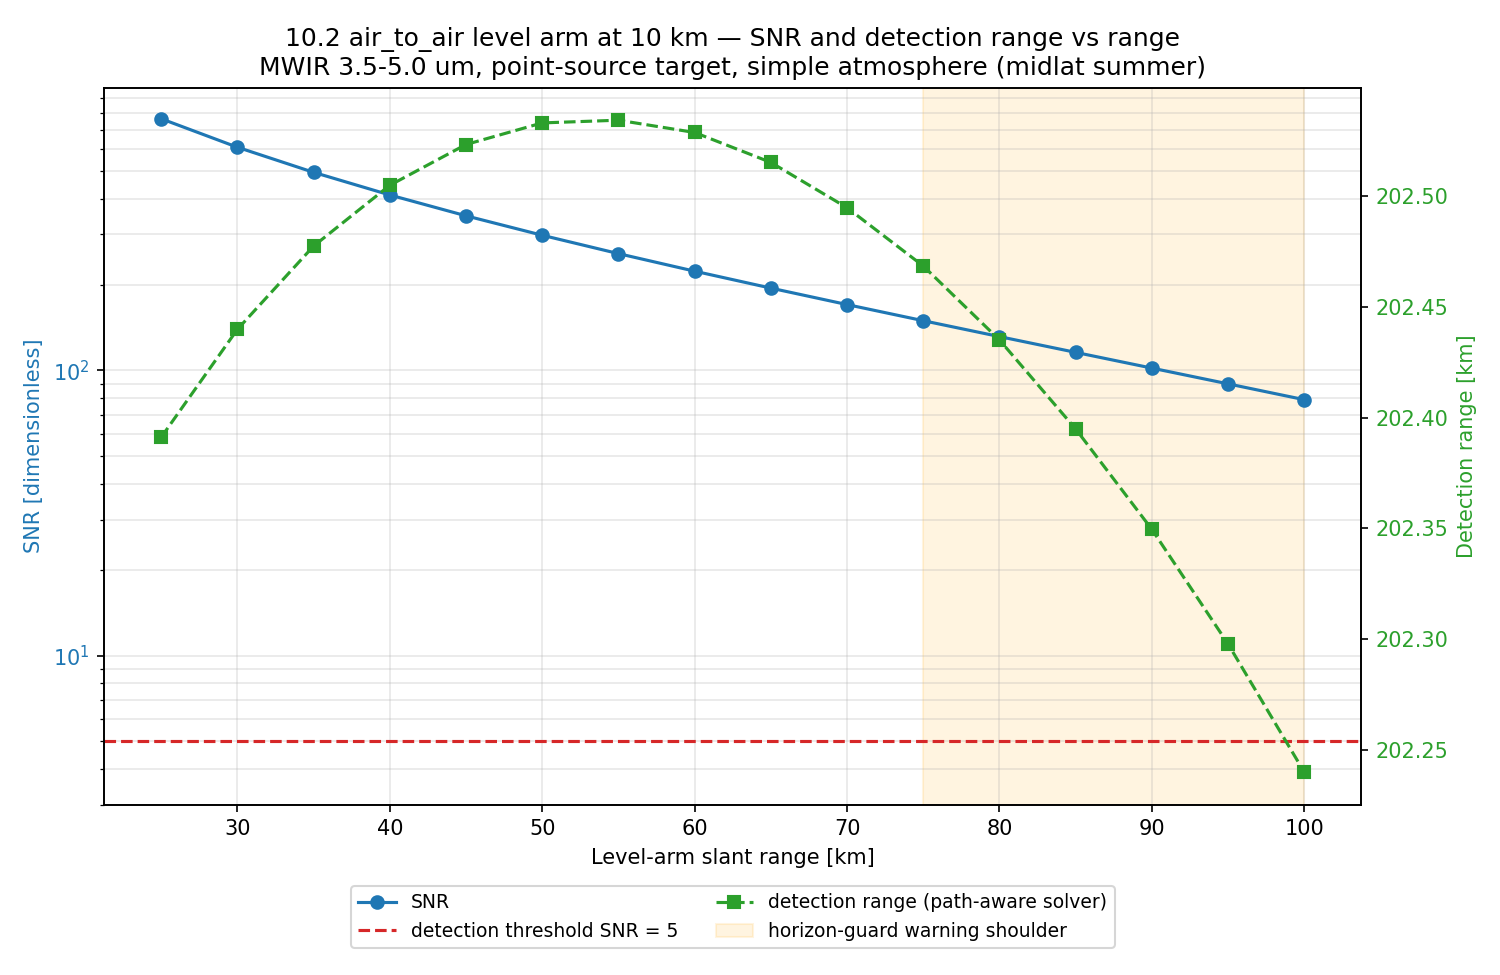
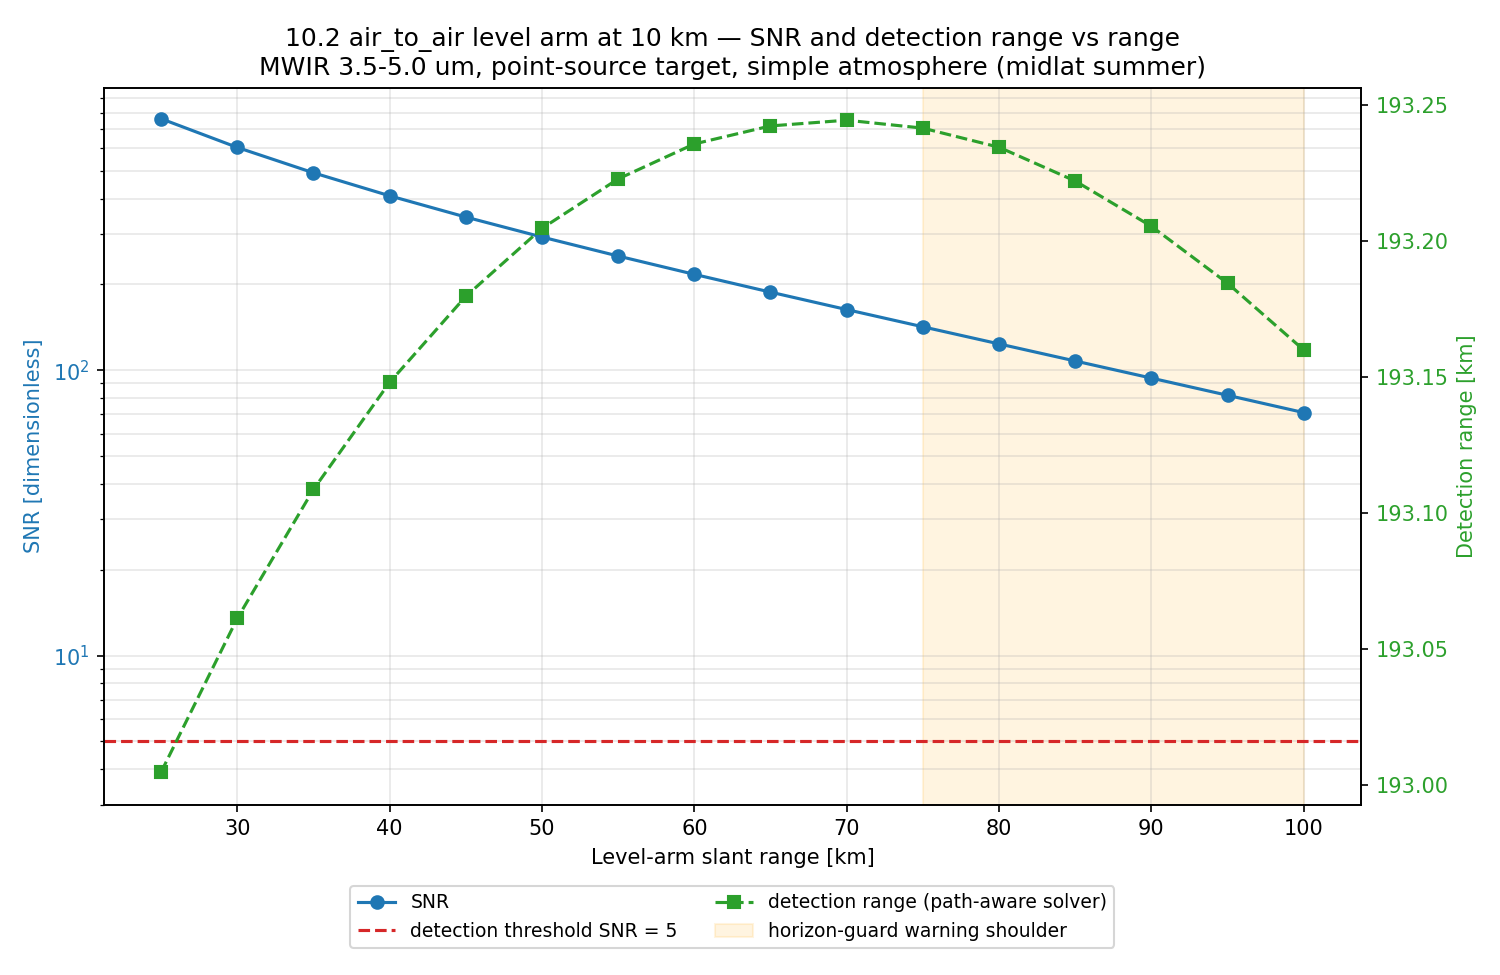
scenarios(10.2): warm optics declared, floor-limited analysis re-derived (CU-380)
This scenario was the one actively raising the CU-380 warning — its runner
classified it UNEXPECTED and printed it at every sweep point, and the
walkthrough devoted a subsection to reasoning that the warning was a correct
Rule-17 report of an over-specified input rather than a defect. That reasoning
was right about the warning and wrong about the scenario: the warning was
reporting a missing background term, not an inert input.

The datasheet's own "Optics temperature: -23.15 degC (= 250.0 K), uncooled
fore-optics soaked at flight OAT" reached nothing but the derived-inputs
printout. Now two reflective surfaces at R = sqrt(0.75) = 0.866025 at that
temperature — the ratified convention, noted in the runner as standing in for
a refractive head, which would need the cavity model (a simple refractive
element is eps = 0 by design, Gap 127) and five material parameters the
datasheet does not supply.

tau, alpha_eff, signal and well margin are bit-identical at every rung. What
moves is the noise floor and everything downstream:

  target-free noise floor   69.2 -> 90.2 e- rms  (+30 %)
  detection range (50 km)  202.5 -> 193.2 km     (-4.6 %)
  SNR at  25 km            763.9 -> 761.7        (-0.3 %)
  SNR at 100 km             79.0 ->  71.1        (-9.9 %)
  floor-only cross-check    0.7 % -> 0.5 % agreement

The range dependence of the SNR penalty is the floor-limited transition
measured directly: near-field SNR barely moves because the target's own shot
[…]

diff --git a/scenarios/10_direction_general/10.2_air_to_air_level_irst/scripts/run_air_to_air_level_irst.py b/scenarios/10_direction_general/10.2_air_to_air_level_irst/scripts/run_air_to_air_level_irst.py
@@ -289,10 +289,35 @@ def make_config(
         "optics": {
             "aperture_diameter_m": c["aperture_m"],
             "focal_length_m": c["focal_length_m"],
-            "transmission_scalar": c["tau_optics"],
             "obscuration_ratio": c["obscuration"],
             "wfe_rms_waves": c["wfe_rms_waves"],
         },
+        # Warm optics declared rather than lumped (CU-380). `transmission_scalar`
+        # synthesizes a lump, and a lump has no Kirchhoff emissivity, so this
+        # head could not emit -- and the datasheet's own "Optics temperature:
+        # -23.15 degC" (= 250.0 K, "uncooled fore-optics soaked at flight OAT")
+        # reached nothing but the derived-inputs printout below. Two reflective
+        # surfaces at R = sqrt(tau_optics) reproduce the net 75 % the datasheet
+        # specifies, so the SCENE signal is unchanged, and each now emits at its
+        # Kirchhoff eps = 1 - R = 0.133975.
+        #
+        # The datasheet calls this a refractive head. The two-mirror form is the
+        # owner-ratified convention (CU-380, 2026-09-30) for declaring net
+        # throughput plus Kirchhoff emission, and it is what the shipped
+        # templates carry. A literally refractive train would need the cavity
+        # model -- a simple refractive element is eps = 0 by design (Gap 127,
+        # absorption unmodelled) -- and the cavity needs R1/T1/R2/T2, alpha,
+        # n_refr and thickness, none of which this datasheet supplies.
+        "optical_elements": [
+            {
+                "name": name,
+                "transfer_mode": "REFLECTIVE",
+                "kind": "MIRROR",
+                "reflectance": math.sqrt(c["tau_optics"]),
+                "temperature_K": c["optics_temp_K"],
+            }
+            for name in ("M1", "M2")
+        ],
         "detector": {
             "pixel_pitch_x_um": c["pitch_um"],
             "pixel_pitch_y_um": c["pitch_um"],

diff --git a/scenarios/10_direction_general/10.2_air_to_air_level_irst/walkthrough.md b/scenarios/10_direction_general/10.2_air_to_air_level_irst/walkthrough.md
@@ -119,12 +119,48 @@ pill reads `Δh  49 m`.
 
 | Range [km] | θ_o [deg] | Δh [m] | guard | τ MWIR [–] | signal [e⁻] | noise [e⁻ rms] | SNR [–] | det. range [km] | well margin [dB] |
 |---:|---:|---:|---:|---:|---:|---:|---:|---:|---:|
-| 25 | 90.11224 | 12.2 | clean | 0.6337 | 5.8803e5 | 769.8 | 763.9 | 202.4 | 4.6 |
-| 40 | 90.17958 | 31.3 | clean | 0.4824 | 1.7478e5 | 423.5 | 412.7 | 202.5 | 15.2 |
-| 50 | 90.22448 | 49.0 | clean | 0.4023 | 9.3262e4 | 312.8 | 298.1 | 202.5 | 20.6 |
-| 70 | 90.31427 | 96.0 | clean | 0.2799 | 3.3094e4 | 194.3 | 170.3 | 202.5 | 29.6 |
-| 75 | 90.33672 | 110.2 | **warn** | 0.2556 | 2.6329e4 | 176.1 | 149.5 | 202.5 | 31.6 |
-| 100 | 90.44896 | 195.9 | **warn** | 0.1625 | 9.4131e3 | 119.1 | 79.0 | 202.2 | 40.5 |
+| 25 | 90.11224 | 12.2 | clean | 0.6337 | 5.8803e5 | 772.0 | 761.7 | 193.0 | 4.6 |
+| 40 | 90.17958 | 31.3 | clean | 0.4824 | 1.7478e5 | 427.5 | 408.9 | 193.1 | 15.2 |
+| 50 | 90.22448 | 49.0 | clean | 0.4023 | 9.3262e4 | 318.2 | 293.1 | 193.2 | 20.6 |
+| 70 | 90.31427 | 96.0 | clean | 0.2799 | 3.3094e4 | 202.8 | 163.2 | 193.2 | 29.6 |
+| 75 | 90.33672 | 110.2 | **warn** | 0.2556 | 2.6329e4 | 185.4 | 142.0 | 193.2 | 31.6 |
+| 100 | 90.44896 | 195.9 | **warn** | 0.1625 | 9.4131e3 | 132.5 | 71.1 | 193.2 | 40.5 |
+
+*Re-authored 2026-10-03. **CU-380** — this scenario's optics now emit, which
+is the change section 4.2's own warning block had been documenting as absent
+(see below: the UNEXPECTED warning is gone, and the vendor table's optics
+temperature is no longer inert). The scalar lump is replaced by two reflective
+surfaces at R = √0.75 = 0.866025, net throughput unchanged by construction, so
+**τ, α_eff, signal and well margin are bit-identical at every rung** — the
+scene path never moved. Each surface emits at ε = 1 − R = 0.133975 at the
+datasheet's own 250.0 K (−23.15 °C, "uncooled fore-optics soaked at flight
+OAT"), so what changes is the noise column and everything downstream of it:
+
+- **The target-free noise floor rises 69.2 → 90.2 e⁻ rms (+30 %)**, which is
+  the whole of this change. Warm optics are a target-independent background,
+  so they land entirely in the floor.
+- **Detection range 202.5 → 193.2 km (−4.6 %)** at the nominal 50 km
+  reference, and the reference-invariance property survives intact (193.0 km
+  from the 25 km row against 193.2 km from the 100 km row, still 1.00×).
+- **SNR falls most where the floor matters most**: −0.3 % at 25 km (761.7),
+  where the target's own shot noise still dominates, against −9.9 % at 100 km
+  (71.1), where the floor is nearly all of the noise. The range dependence of
+  the penalty *is* the floor-limited transition, measured.
+- **The shot-consistent cross-check tightens**, 0.7 % → 0.5 %. A larger floor
+  makes the far field more nearly floor-limited, which is precisely the
+  condition the floor-only bound assumes, so the two solves converge.
+- **The "not background limited at short range" verdict stands.** At 25 km the
+  total noise is 772.0 e⁻ rms of which 766.8 is the target's own shot noise;
+  the floor is 88.9. Warm optics raised the floor by 30 % and did not come
+  close to changing which term dominates the near field.
+
+Also folded in: the measured pre-change run differed from the numbers recorded
+below in the noise decomposition of §4.2 (25 km total noise 733.8 → 769.8 e⁻
+rms, target shot 730.7 → 766.8; 100 km 115.5 → 119.1 and 92.5 → 97.0) and in
+the floor-only cross-check (200.0 → 203.6 km against 198.7 → 202.2 km). That is
+uncaptured residue from the CU-355 refresh, which updated the sweep table but
+not these two derived blocks — not CU-380 movement. The tables below are
+measured, so the residue is corrected here.*
 
 *Refreshed 2026-09-12 (chartered sweep). Sole mover: **CU-355** — the
 scalar-WFE screen became the deterministic low-order expansion, which keeps
@@ -169,12 +205,17 @@ digit here.*
 (The full 16-row table is in `outputs/10.2_air_to_air_results.xlsx`, regenerated
 by running the script.)
 
-SNR falls 9.9× over a 4× range increase — steeper than inverse-square because
+SNR falls 10.7× over a 4× range increase — steeper than inverse-square because
 the band transmittance falls from 0.634 to 0.163 over the same span. No pixel
 saturates anywhere in the sweep (well margin 4.6 dB at the near end, per the 25 km row).
 
-**One warning other than the horizon guard is raised, at every sweep point.**
-The runner classifies it as UNEXPECTED and prints it in full:
+**No warning other than the horizon guard is raised anywhere in the sweep** —
+as of CU-380 (2026-10-03). This subsection is kept because its history is the
+clearest record in the scenario suite of a defect being reported correctly,
+read correctly, and still shipping twice.
+
+For two generations this scenario raised an UNEXPECTED warning at every sweep
+point, and the runner printed it in full:
 
 <!-- Superseded 2026-09-10: optics.optics_temperature_K was removed (inert after
      Gap 127) and this warning with it. Quoted verbatim as a record of the run. -->
@@ -189,19 +230,35 @@ The runner classifies it as UNEXPECTED and prints it in full:
 `optics.scalar_emissivity`. The firing condition and every computed value in
 this walkthrough are unchanged — this scenario declares no element list.)*
 
-This is CU-261/265's inert-optics-temperature warning, and it is telling the
-truth about *this* configuration: the vendor table's −23.15 °C optics
-temperature (§2) is carried through the config but is radiometrically inert,
-because the scenario models the refractive head as a scalar transmission lump
-rather than as a Kirchhoff-derived element list (under Gap 127, 2026-09-09, a
-scalar lump never emits at all).
-Every number in this walkthrough is therefore independent of the optics
-temperature. The scenario config is left unmodified rather than silenced — the
-warning is the correct Rule-17 report of an over-specified input, not a defect
-to suppress.
+This was CU-261/265's inert-optics-temperature warning, and it told the exact
+truth about that configuration: the vendor table's −23.15 °C optics
+temperature (§2) was carried through the config, printed in the derived-inputs
+table, and radiometrically inert — because the scenario modelled the
+refractive head as a scalar transmission lump rather than a Kirchhoff-derived
+element list, and under Gap 127 a scalar lump never emits. The walkthrough then
+drew the defensible-looking conclusion that *"every number in this walkthrough
+is therefore independent of the optics temperature"*, and left the config
+unmodified rather than silenced, on the ground that the warning was a correct
+Rule-17 report rather than a defect to suppress.
+
+That reasoning was right about the warning and wrong about the scenario. The
+warning was not reporting an over-specified input; it was reporting a **missing
+background term** — the one an uncooled MWIR fore-optic contributes, which for
+this design is 30 % of the target-free noise floor and 4.6 % of the detection
+range. "Independent of the optics temperature" was true of the model as
+configured and false of the instrument it represented. The general lesson, now
+tracked as [[CU-380]] and its bookkeeping sibling [[CU-387]]: a warning that
+is *accurate* about the configuration can still be describing physics the
+scenario needed. Inertness is a finding about the model, not a property of the
+hardware.
+
+Since CU-380 the train is declared (two surfaces at R = √0.75 = 0.866025,
+250.0 K from the datasheet), the temperature is live, the warning is silent
+because its condition is genuinely gone, and the sweep reports zero unexpected
+warnings.
 
 **Non-obvious result — `detection_range_m` is reference-range invariant**
-(202.4 km referenced at 25 km, 202.2 km referenced at 100 km, a factor 1.00; digits refreshed 2026-09-12, CU-355).
+(193.0 km referenced at 25 km, 193.2 km referenced at 100 km, a factor 1.00; digits refreshed 2026-10-03, CU-380).
 The path-aware solver scales the *signal* along the path,
 $S(R) = S_{ref}(R_{ref}/R)^2\,\tau(R)/\tau(R_{ref})$, **and the target's own
 shot noise with it**: $\sigma^2(R) = S(R) + N_0^2$, with $N_0$ the target-free
@@ -211,23 +268,26 @@ short range:
 
 | range [km] | total noise [e⁻ rms] | of which target shot [e⁻ rms] | target-free floor [e⁻ rms] |
 |---:|---:|---:|---:|
-| 25 | 733.8 | 730.7 | 67.5 |
-| 100 | 115.5 | 92.5 | 69.2 |
+| 25 | 772.0 | 766.8 | 88.9 |
+| 100 | 132.5 | 97.0 | 90.2 |
 
 At 25 km the noise is almost entirely the *target's own* shot noise, which
 vanishes as the target recedes. Freezing it used to make the near-field answer
 strongly pessimistic — **123.4 km referenced at 25 km against 182.5 km
 referenced at 100 km, a 1.48× spread on one unchanged design**, which is what
 CU-263 was filed against. The nominal 50 km answer moved **150.9 km → 199.1 km
-(+31.9 %)** with the fix. The residual 0.3 km spread across the sweep is the
+(+31.9 %)** with the fix — 199.1 km being the reading current when CU-263
+landed; it is 193.2 km today, after CU-355 and CU-380. The residual spread across the sweep is the
 band-mean τ model's own reference dependence ($\alpha_{eff}$ moves in the fifth
-digit, 0.01826 → 0.01818 km⁻¹), not the noise treatment.
+digit, 0.01826 → 0.01818 km⁻¹), not the noise treatment. (0.2 km as measured
+since CU-380 — a higher floor leaves slightly less of the spread to the α_eff
+reference dependence.)
 
 Cross-check: re-solving against the target-free floor **alone** (sky background
-shot + read + quantisation + dark = **69.2 e⁻ rms**, dropping the target's own
-residual shot noise entirely) gives **200.0 km at SNR = 5** — the fully
-floor-limited bound, which must sit just *above* the chain's 198.7 km. They
-agree to 0.7 %. That is the number an IRST engineer would quote for this design
+shot + warm-optics shot + read + quantisation + dark = **90.2 e⁻ rms**,
+dropping the target's own residual shot noise entirely) gives **194.2 km at
+SNR = 5** — the fully floor-limited bound, which must sit just *above* the
+chain's 193.2 km. They agree to 0.5 %. That is the number an IRST engineer would quote for this design
 against this target on the simple model, and the shipped metric now reproduces
 it.
 
